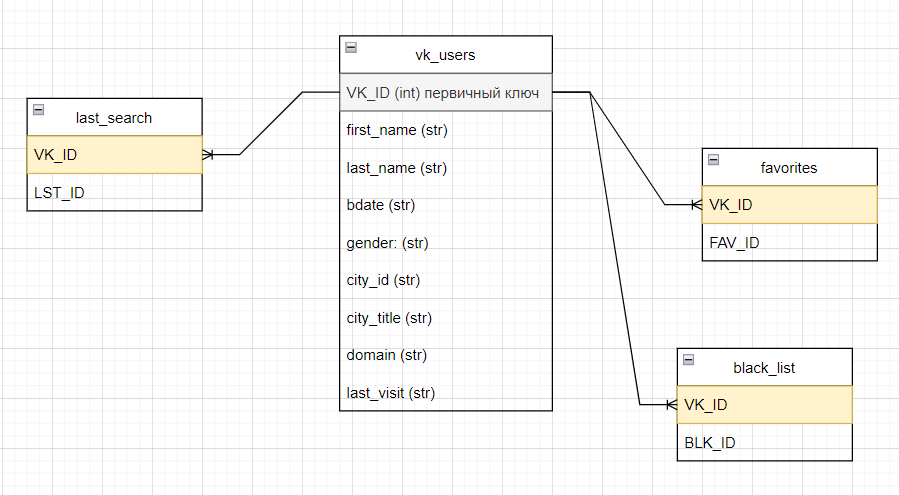
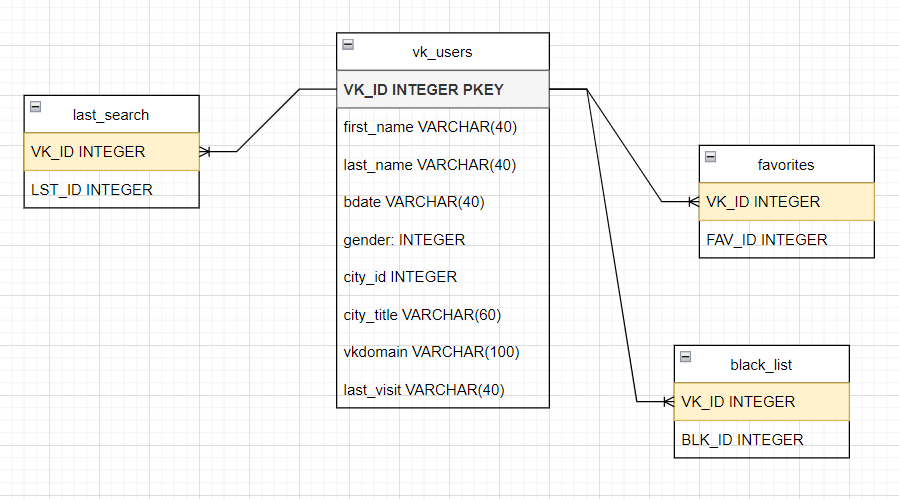
dataclasses v0.1.1

diff --git a/modules/db/dataclasses.py b/modules/db/dataclasses.py
@@ -1,6 +1,6 @@
 ###########################
 # файл: dataclass.py
-# version: 0.1
+# version: 0.1.1
 ###########################
 
 # Пол пользователя ВКонтакте
@@ -25,7 +25,7 @@ class VKUserData(object):
     # Название города пользователя
     city_title: str
     # адрес траницы ВКонтакте пользователя
-    domain: str
+    vkdomain: str
     # Дата время последнего общения с ботом
     last_visit: str
 
@@ -41,7 +41,7 @@ class VKUserData(object):
         self.gender = 0
         self.city_id = 0
         self.city_title = ''
-        self.domain = ''
+        self.vkdomain = ''
         self.last_visit = ''
     # end __init__()
 
